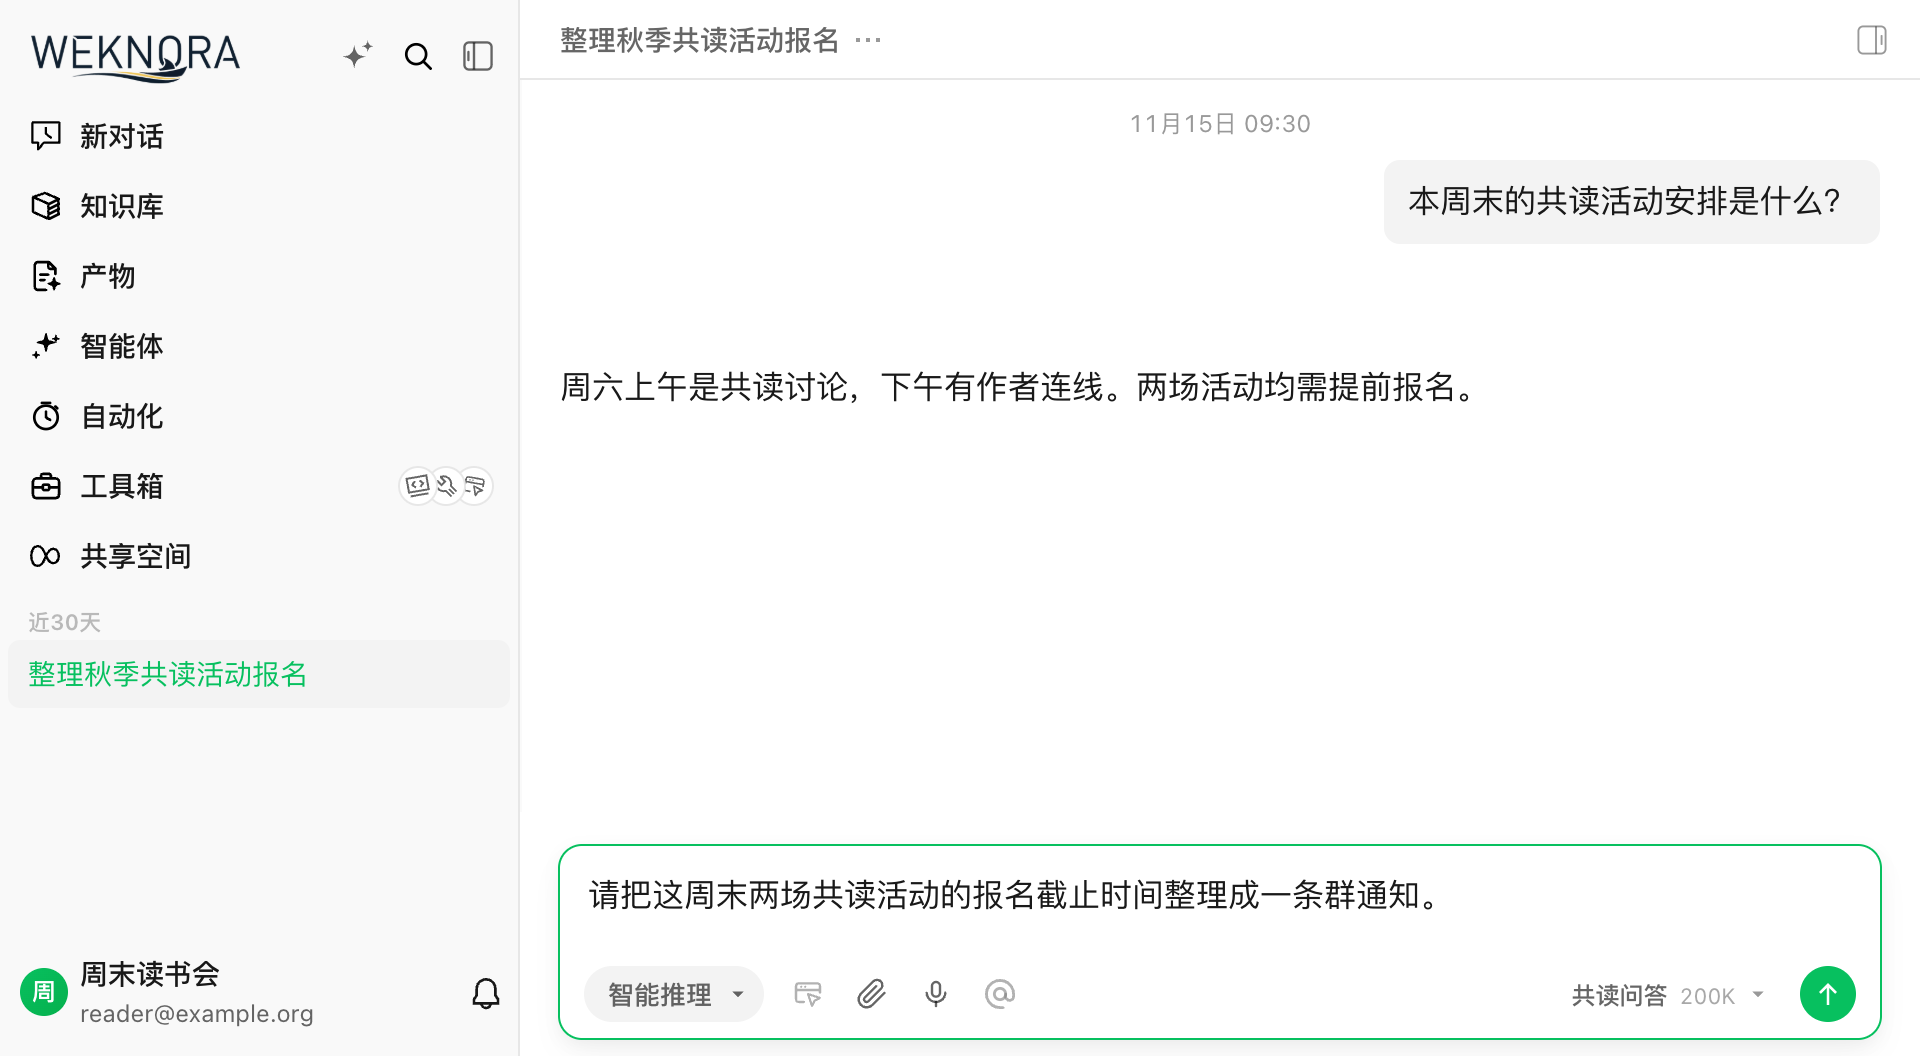
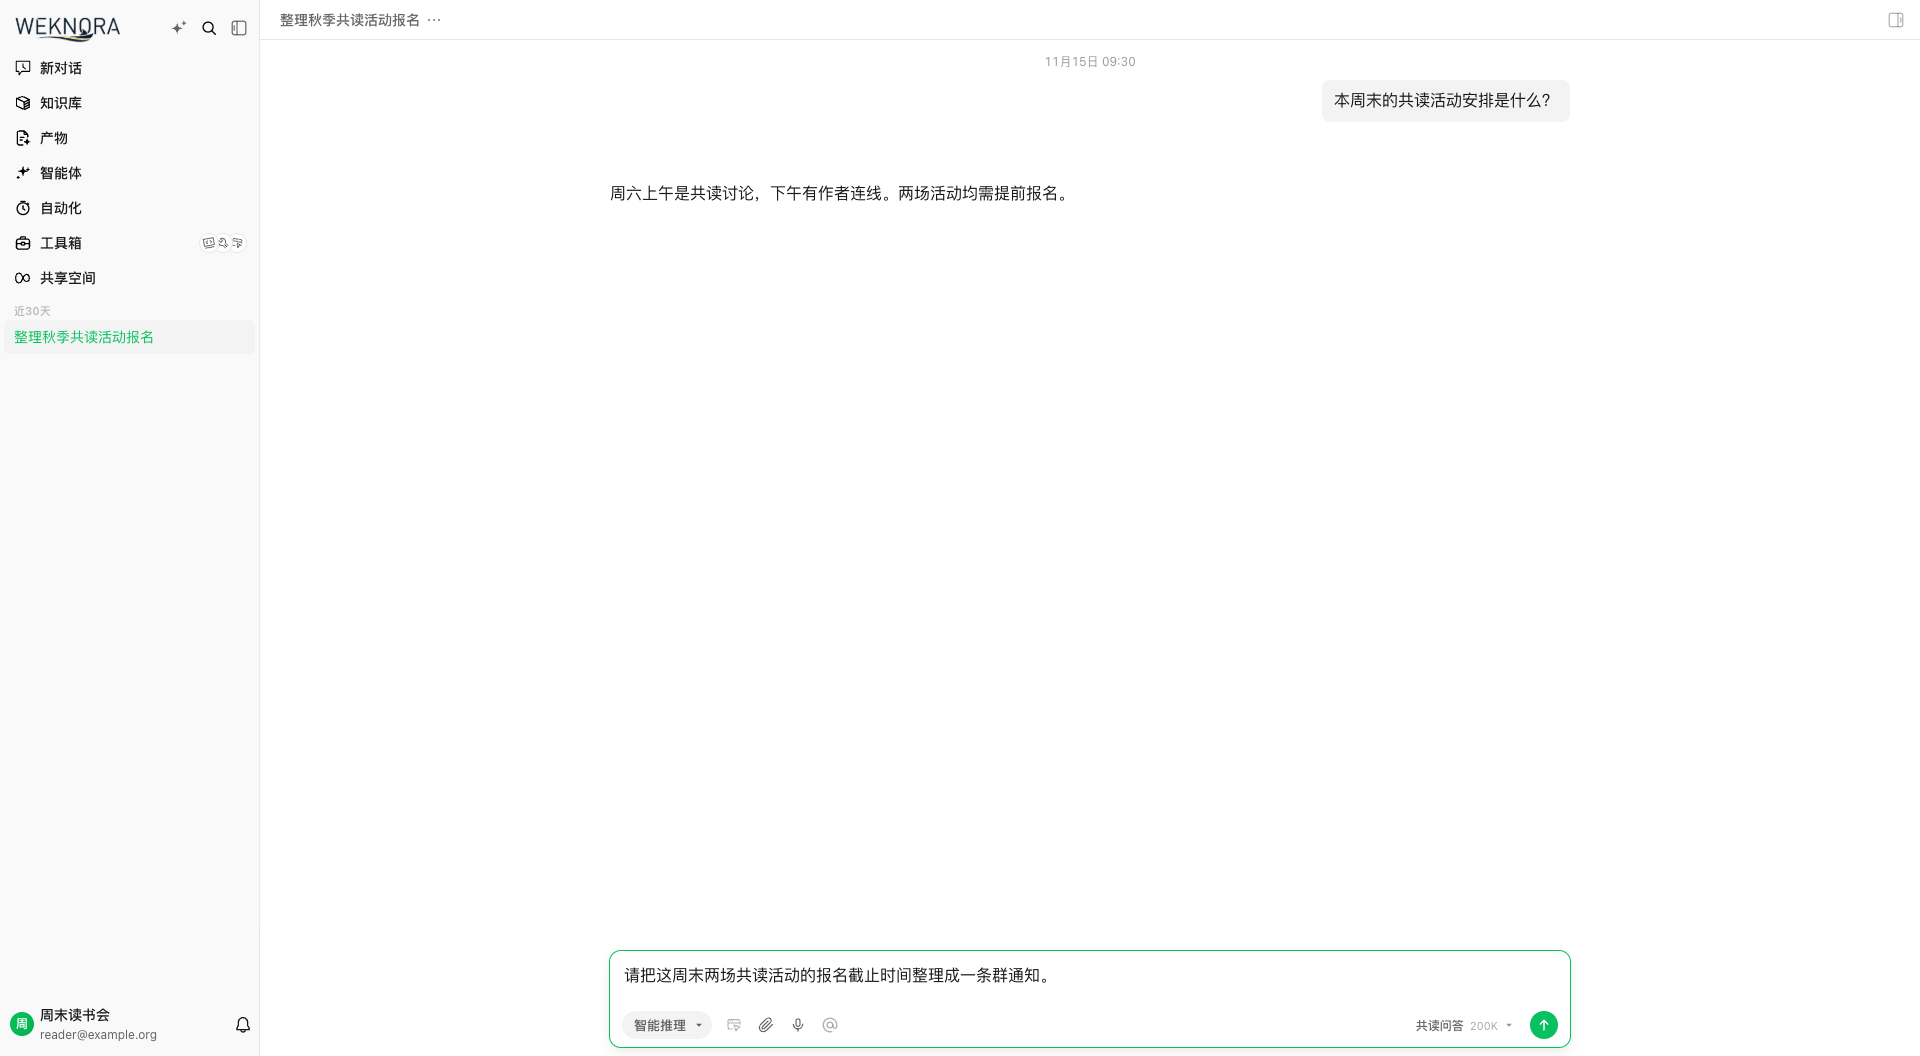
docs: preserve native scale in v0.9.1 screenshots

diff --git a/website-docs/homepage/app/home.module.css b/website-docs/homepage/app/home.module.css
@@ -94,7 +94,7 @@
 .artifactHeading > span { display: inline-flex; align-items: center; gap: 8px; }
 .artifactHeading > span:last-child { font-family: ui-monospace, monospace; letter-spacing: .07em; font-size: 12px; color: var(--mute); }
 .artifactHeading svg { width: 17px; height: 17px; color: var(--gold); }
-.artifactImage img { display: block; width: 100%; height: auto; }
+.artifactImage img { display: block; width: auto; height: auto; max-width: 100%; margin-inline: auto; }
 .artifactFigure figcaption { display: flex; flex-wrap: wrap; justify-content: space-between; gap: 8px; padding: 14px 20px; font-size: 12px; color: var(--soft); border-top: 1px solid var(--rule); }
 .artifactFigure figcaption > span:last-child { color: var(--mute); }
 .releaseExtras { display: flex; align-items: center; justify-content: space-between; flex-wrap: wrap; gap: 12px 24px; padding-top: 29px; margin-top: 48px; border-top: 1px solid var(--rule); font-size: 13px; color: var(--soft); }
@@ -143,8 +143,8 @@
 @keyframes tabProgress { from { transform: scaleX(0); } to { transform: scaleX(1); } }
 @media (prefers-reduced-motion: reduce) { .tabProgress { animation: none; } }
 .shotStack { display: grid; overflow: hidden; }
-.shotLayer { grid-area: 1 / 1; opacity: 0; transform: scale(1.015); pointer-events: none; transition: opacity .45s ease, transform .6s cubic-bezier(.2, .7, .2, 1); }
-.shotLayer[data-active="true"] { opacity: 1; transform: none; pointer-events: auto; }
+.shotLayer { grid-area: 1 / 1; opacity: 0; pointer-events: none; transition: opacity .45s ease; }
+.shotLayer[data-active="true"] { opacity: 1; pointer-events: auto; }
 @media (prefers-reduced-motion: reduce) { .shotLayer { transition: none; } }
 .pendingLabel { color: var(--mute); font-size: 12px; }
 .slideLinks { display: flex; flex-wrap: wrap; align-items: center; gap: 4px 24px; margin-top: 10px; }

diff --git a/docs/release-v0.9.1-audit.md b/docs/release-v0.9.1-audit.md
@@ -36,7 +36,7 @@
 
 ## 配图与视频
 
-七张 PNG 均来自候选版 Vue 前端，演示账号、域名和资料使用虚构的「周末读书会」数据。每张原图为 **1920 × 1056**，官网和文档引用的同名文件逐字节一致。
+七张 PNG 均来自候选版 Vue 前端，演示账号、域名和资料使用虚构的「周末读书会」数据。全部截图使用 **1920 × 1056** 的完整浏览器视口，页面缩放为 100%，设备像素比为 1。首页、版本说明和图文包里的同名文件与浏览器输出逐字节一致。
 
 - [按住录音](../website-docs/public/screenshots/release-v091-voice.png)与[可编辑的草稿](../website-docs/public/screenshots/release-v091-dictation.png)展示同一次操作的前后状态。真实浏览器使用测试麦克风录制，实际生成并上传 WAV。本地接口返回示例转写，已确认文字留在输入框，没有发起聊天请求。
 - [安全登录表单](../website-docs/public/screenshots/release-v091-login.png)展示当前任务请求登录的域名和表单。演示只展示填写入口。
